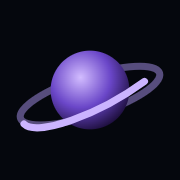
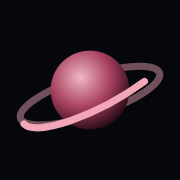
replaced serif with self-hosted Archivo, recolored projects, switched to AgX

Changed region(s): [[0.0833, 0.2778, 0.9167, 0.75]]

diff --git a/src/ui/Reader.tsx b/src/ui/Reader.tsx
@@ -67,7 +67,7 @@ const SectionBody = ({ planet, onProject }: { planet: Planet; onProject: (beacon
         <div className="grid gap-x-10 gap-y-8 sm:grid-cols-2">
           {skills.map((s) => (
             <div key={s.id} id={entryId(s.id)} className="space-y-3">
-              <h3 className={cx('font-display font-normal leading-tight text-ink', DISPLAY.d24)}>
+              <h3 className={cx('font-display leading-tight text-ink', DISPLAY.d24)}>
                 {s.content.heading}
               </h3>
               <StackChips items={s.content.items} label={s.content.heading} />
@@ -270,14 +270,11 @@ const Reader = () => {
                       onClick={() => goTo(sectionId(p.id))}
                       aria-current={on ? 'true' : undefined}
                       className={cx(
-                        'flex w-full items-center gap-3 rounded-md py-1.5 text-left text-[14px] transition-colors duration-200',
+                        'flex w-full items-center rounded-md py-1.5 text-left text-[14px] transition-colors duration-200',
                         on ? 'text-ink' : 'text-ink-faint hover:text-ink-muted',
                       )}
                     >
-                      <span className="w-5 font-mono text-[11px] tracking-[0.14em]">
-                        {String(p.index).padStart(2, '0')}
-                      </span>{' '}
-                      <span>{p.title}</span>
+                      {p.title}
                     </button>
                   </li>
                 );
@@ -294,7 +291,7 @@ const Reader = () => {
             )}
           >
             <header className="border-line pb-12 lg:border-b">
-              <h1 className={cx('font-display font-normal leading-[0.95] tracking-[-0.02em] text-ink', DISPLAY.d80)}>
+              <h1 className={cx('font-display leading-[0.95] tracking-[-0.035em] text-ink', DISPLAY.d80)}>
                 {profile.name}
               </h1>
               <ul className="mt-7 flex flex-wrap gap-x-6 gap-y-2">
@@ -357,13 +354,10 @@ const Reader = () => {
                   <h2
                     id={`${sectionId(p.id)}-title`}
                     className={cx(
-                      'flex items-baseline gap-3 font-display font-normal leading-none text-ink',
+                      'font-display leading-none text-ink',
                       DISPLAY.d52,
                     )}
                   >
-                    <span className="self-center font-mono text-[12px] tracking-[0.14em] text-ink-muted">
-                      {String(p.index).padStart(2, '0')}
-                    </span>
                     {p.title}
                   </h2>
                   {!noWebGL && (
@@ -377,7 +371,7 @@ const Reader = () => {
               </section>
             ))}
 
-            <footer className="space-y-2 pt-8 font-mono text-[12px] text-ink-faint">
+            <footer className="space-y-2 pt-8 text-[13px] text-ink-faint">
               {noWebGL && <p>The interactive version needs WebGL.</p>}
               <p>
                 {profile.name} / {new Date().getFullYear()}

diff --git a/src/ui/PlanetHud.tsx b/src/ui/PlanetHud.tsx
@@ -112,7 +112,7 @@ const BeaconMarkers = ({ planet, focused }: { planet: Planet; focused: string | 
                   on ? 'text-[var(--accent)]' : 'text-ink group-hover:text-white',
                 )}
               >
-                <span className="whitespace-nowrap font-mono text-[13px] font-medium uppercase leading-tight tracking-[0.14em] max-sm:text-[11px]">
+                <span className="whitespace-nowrap font-display text-[15px] leading-tight max-sm:text-[13px]">
                   {b.label}
                 </span>
               </span>
@@ -141,7 +141,7 @@ const BeaconMarkers = ({ planet, focused }: { planet: Planet; focused: string | 
               <span ref={bind(b.id, 'arrow')} className="inline-flex text-[var(--accent)]">
                 <ChevronIcon />
               </span>
-              <span className="font-mono text-[11px] uppercase tracking-[0.14em] text-ink">{b.label}</span>
+              <span className="text-[13px] font-medium text-ink">{b.label}</span>
             </button>
           </div>
         );
@@ -372,7 +372,7 @@ const PlanetHud = () => {
               FLOAT_TEXT,
             )}
           >
-            <span className="truncate font-display text-[20px] leading-none text-ink">{planet.title}</span>
+            <span className="truncate font-display text-[18px] leading-none text-ink">{planet.title}</span>
           </p>
           <div className="ml-auto flex shrink-0 items-center gap-1.5 sm:gap-2">
             <TravelMenu current={planet.id} isTouch={isTouch} />
@@ -397,7 +397,7 @@ const PlanetHud = () => {
           <h1
             data-planet-title
             tabIndex={-1}
-            className={cx('font-display font-normal leading-none text-ink outline-none', DISPLAY.d40)}
+            className={cx('font-display leading-none text-ink outline-none', DISPLAY.d40)}
           >
             {planet.title}
           </h1>

diff --git a/index.html b/index.html
@@ -40,12 +40,6 @@
         ]
       }
     </script>
-    <link rel="preconnect" href="https://fonts.googleapis.com" />
-    <link rel="preconnect" href="https://fonts.gstatic.com" crossorigin />
-    <link
-      href="https://fonts.googleapis.com/css2?family=IBM+Plex+Mono:wght@400;500&family=IBM+Plex+Sans:wght@400;500;600&family=Instrument+Serif:ital@0;1&display=swap"
-      rel="stylesheet"
-    />
   </head>
   <body>
     <noscript>
@@ -57,10 +51,10 @@
         <h1>John Mannully</h1>
         <p>Full-stack and AI developer in Ontario, Canada. Projects: Iris (hands-free computer control, Hack The Valley X Future Impact winner), Eureka (supply-chain risk intelligence), Bastion (autonomous blue-team agent) and ShieldClaw (Hack Canada 2026 winner).</p>
         <p>
-          <a style="color: #cbb4ff" href="mailto:johnmannul@gmail.com">Email</a> ·
-          <a style="color: #cbb4ff" href="https://github.com/teddycitrus">GitHub</a> ·
-          <a style="color: #cbb4ff" href="https://devpost.com/teddycitrus">Devpost</a> ·
-          <a style="color: #cbb4ff" href="https://www.linkedin.com/in/john-mannully/">LinkedIn</a>
+          <a style="color: #e9eef7" href="mailto:johnmannul@gmail.com">Email</a>&nbsp;&nbsp;
+          <a style="color: #e9eef7" href="https://github.com/teddycitrus">GitHub</a>&nbsp;&nbsp;
+          <a style="color: #e9eef7" href="https://devpost.com/teddycitrus">Devpost</a>&nbsp;&nbsp;
+          <a style="color: #e9eef7" href="https://www.linkedin.com/in/john-mannully/">LinkedIn</a>
         </p>
         <p>This site needs JavaScript and WebGL for the interactive version.</p>
       </main>

diff --git a/src/styles/index.css b/src/styles/index.css
@@ -24,7 +24,8 @@
     overflow: hidden;
     background: var(--space);
     color: var(--ink);
-    font-family: 'IBM Plex Sans', ui-sans-serif, system-ui, sans-serif;
+    font-family: 'Archivo Variable', ui-sans-serif, system-ui, sans-serif;
+    font-stretch: 100%;
     -webkit-font-smoothing: antialiased;
     -moz-osx-font-smoothing: grayscale;
     text-rendering: optimizeLegibility;
@@ -67,6 +68,16 @@
   }
 }
 
+@layer utilities {
+  /* Display cut: Archivo expanded and a little heavier, tight tracking. */
+  .font-display {
+    font-family: 'Archivo Variable', ui-sans-serif, system-ui, sans-serif;
+    font-stretch: 118%;
+    font-weight: 540;
+    letter-spacing: -0.025em;
+  }
+}
+
 @layer components {
   /* Instrument panel surface: dark, slightly translucent, hairline border. */
   .panel {
@@ -77,12 +88,11 @@
     box-shadow: 0 24px 60px -24px rgba(0, 0, 0, 0.7);
   }
 
-  /* Small uppercase telemetry label. */
+  /* Small secondary label: same family as the text around it, just quieter. */
   .label {
-    font-family: 'IBM Plex Mono', ui-monospace, monospace;
-    font-size: 11px;
-    letter-spacing: 0.14em;
-    text-transform: uppercase;
+    font-size: 13px;
+    font-weight: 450;
+    line-height: 1.3;
     color: var(--ink-muted);
   }
 
@@ -96,7 +106,7 @@
     border: 1px solid var(--line);
     border-bottom-width: 2px;
     border-radius: 4px;
-    font-family: 'IBM Plex Mono', ui-monospace, monospace;
+    font-family: 'JetBrains Mono Variable', ui-monospace, monospace;
     font-size: 11px;
     color: var(--ink);
     background: rgba(255, 255, 255, 0.04);

diff --git a/src/scenes/Effects.tsx b/src/scenes/Effects.tsx
@@ -1,6 +1,6 @@
 import { PerformanceMonitor } from '@react-three/drei';
 import { useThree } from '@react-three/fiber';
-import { Bloom, EffectComposer, Noise, ToneMapping, Vignette } from '@react-three/postprocessing';
+import { Bloom, BrightnessContrast, EffectComposer, Noise, ToneMapping, Vignette } from '@react-three/postprocessing';
 import { BlendFunction, ToneMappingMode } from 'postprocessing';
 
 /**
@@ -25,7 +25,8 @@ const AdaptiveDpr = () => {
 
 /**
  * HDR post chain for every mode. Scenes render linear HDR; bloom only catches
- * values above ~1 (sun core, lava, hovered rims), then ACES maps to display.
+ * values above ~1 (sun core, lava, hovered rims), then AgX maps to display: it rolls highlights
+ * off without the hue skew ACES gives saturated lava, skies and accents.
  */
 const Effects = () => {
   return (
@@ -40,8 +41,10 @@ const Effects = () => {
           radius={0.72}
           levels={COARSE ? 4 : 5}
         />
-        <ToneMapping mode={ToneMappingMode.ACES_FILMIC} />
-        <Vignette offset={0.32} darkness={0.5} />
+        <ToneMapping mode={ToneMappingMode.AGX} />
+        {/* AgX lands a touch flat; a little contrast brings the low-poly faces back apart */}
+        <BrightnessContrast contrast={0.12} />
+        <Vignette offset={0.36} darkness={0.38} />
         {COARSE ? <></> : <Noise blendFunction={BlendFunction.OVERLAY} opacity={0.04} />}
       </EffectComposer>
     </>

diff --git a/src/ui/OverworldHud.tsx b/src/ui/OverworldHud.tsx
@@ -63,7 +63,7 @@ const PlanetLabels = ({ hovered, isTouch }: { hovered: string | null; isTouch: b
             >
               {/* staggered reveal so the first overworld frame is calm */}
               <span
-                className="block animate-fade-in whitespace-nowrap font-display text-[20px] leading-none min-[1921px]:text-[24px]"
+                className="block animate-fade-in whitespace-nowrap font-display text-[17px] leading-none min-[1921px]:text-[20px]"
                 style={{ animationDelay: `${550 + i * 90}ms` }}
               >
                 {p.title}
@@ -84,7 +84,7 @@ const PlanetLabels = ({ hovered, isTouch }: { hovered: string | null; isTouch: b
               <span ref={bind(p.id, 'arrow')} className="inline-flex text-[var(--accent)]">
                 <ChevronIcon />
               </span>
-              <span className="font-mono text-[11px] uppercase tracking-[0.14em] text-ink-muted">{p.title}</span>
+              <span className="text-[13px] font-medium text-ink-muted">{p.title}</span>
             </button>
           </div>
         );

diff --git a/src/ui/primitives.tsx b/src/ui/primitives.tsx
@@ -64,16 +64,17 @@ export const FLOAT_TEXT = '[text-shadow:0_1px_2px_rgba(5,7,13,0.9),0_0_14px_rgba
 export const IN_WORLD = FLOAT_TEXT;
 
 /**
- * Display type scale (Instrument Serif): 136 / 80 / 52 / 40 / 32 / 24 / 20.
- * Only these sizes are used for serif text.
+ * Display type scale (Archivo expanded): 64 / 44 / 32 / 26 / 22 / 18.
+ * Only these sizes are used for display text.
  */
 export const DISPLAY = {
-  d80: 'text-[52px] md:text-[80px]',
-  d52: 'text-[40px] md:text-[52px]',
-  d40: 'text-[32px] md:text-[40px]',
-  d32: 'text-[32px]',
-  d24: 'text-[24px]',
-  d20: 'text-[20px]',
+  // the expanded cut sets wider than the old serif, so the scale steps down
+  d80: 'text-[40px] md:text-[64px]',
+  d52: 'text-[32px] md:text-[44px]',
+  d40: 'text-[26px] md:text-[32px]',
+  d32: 'text-[26px]',
+  d24: 'text-[22px]',
+  d20: 'text-[18px]',
 } as const;
 
 type Variant = 'primary' | 'panel' | 'ghost';

diff --git a/src/ui/BeaconContent.tsx b/src/ui/BeaconContent.tsx
@@ -12,8 +12,8 @@ import type {
 import { ArrowIcon, Chip, DISPLAY, PlayIcon, buttonClass, cx } from './primitives';
 import { findProjectBeacon } from './navigation';
 
-/** Reader entry headings share one size across every kind; the panel title is 32 too. */
-export const ENTRY_HEADING = cx('font-display font-normal leading-[1.05] tracking-[-0.01em] text-ink', DISPLAY.d32);
+/** Entry headings share one size across every kind, in the reader and on the screens. */
+export const ENTRY_HEADING = cx('font-display leading-[1.1] text-ink', DISPLAY.d32);
 
 /**
  * Shared content renderers for the beacon panel and the reader page so a

diff --git a/tailwind.config.js b/tailwind.config.js
@@ -4,9 +4,9 @@ export default {
   theme: {
     extend: {
       fontFamily: {
-        display: ['"Instrument Serif"', 'ui-serif', 'Georgia', 'serif'],
-        sans: ['"IBM Plex Sans"', 'ui-sans-serif', 'system-ui', 'sans-serif'],
-        mono: ['"IBM Plex Mono"', 'ui-monospace', 'SFMono-Regular', 'monospace'],
+        // one grotesque family; display is its expanded cut (see .font-display in index.css)
+        sans: ['"Archivo Variable"', 'ui-sans-serif', 'system-ui', 'sans-serif'],
+        mono: ['"JetBrains Mono Variable"', 'ui-monospace', 'SFMono-Regular', 'monospace'],
       },
       colors: {
         space: {

diff --git a/src/ui/TourBar.tsx b/src/ui/TourBar.tsx
@@ -271,7 +271,7 @@ const TourBar = () => {
 
         <div aria-live="polite" className="mt-2">
           {end ? (
-            <p className="font-display text-[24px] leading-tight text-ink">That's the tour.</p>
+            <p className="font-display text-[22px] leading-tight text-ink">That's the tour.</p>
           ) : (
             <p className="text-[14px] leading-snug text-ink sm:text-[15px]">
               <span className="sr-only">

diff --git a/src/main.tsx b/src/main.tsx
@@ -2,6 +2,8 @@ import React from 'react';
 import ReactDOM from 'react-dom/client';
 import App from './App';
 import { useAppStore } from './state/useAppStore';
+import '@fontsource-variable/archivo/wdth.css';
+import '@fontsource-variable/jetbrains-mono';
 import './styles/index.css';
 import { initDrone } from './audio/drone';
 

diff --git a/README.md b/README.md
@@ -30,7 +30,7 @@ flowchart LR
     surface["PlanetSurfaceScene<br/><sub>sky, terrain, monuments, wildlife, walk camera</sub>"]
     screens["BeaconScreens<br/><sub>orbiting panels, in-world content screens</sub>"]
     transition["TransitionController<br/><sub>dive and launch camera</sub>"]
-    fx["Effects<br/><sub>bloom, ACES, vignette</sub>"]
+    fx["Effects<br/><sub>bloom, AgX, contrast, vignette</sub>"]
   end
   subgraph DOM["DOM UI"]
     hud["OverworldHud, PlanetHud, TourBar<br/><sub>labels, dock, chips</sub>"]
@@ -99,7 +99,8 @@ Guarantees and limits:
 - Beacon screens are real DOM (drei `Html` in transform mode, portalled into `#screen-layer` between the canvas and the HUD), so links, the video and keyboard focus work. They lay out in up to three columns on a plane 3.2 units in front of the camera, on whichever side of the monument has room, and shrink to fit the view. They fold back past 8.5 units.
 - Wildlife is picked by planet style: gulls on Skills, birds and deer on Contact, hopping aliens and birds on About, glowing drifters on Projects, nothing on Awards. Birds are one instanced mesh with wing flaps in the vertex shader; walkers wander a ring behind the monuments and trot away from the viewer.
 - The ambient drone is synthesised (detuned saws through a slow lowpass and a generated reverb), plays each planet's `key` from content.json, crossfades over 4 s on travel and sits at 0.08 gain in orbit against 0.2 on a planet. It starts on the first click or key press; the Sound toggle is stored in `localStorage` and suspends the audio context when off.
-- Post-processing renders in linear HDR with ACES tone mapping; only values above 1.0 bloom (sun, lava, glints, focused seams). Touch devices drop multisampling and film grain.
+- Type is one self-hosted family, Archivo (expanded cut for display, normal for text), with JetBrains Mono only for key caps and handles. No font CDN.
+- Post-processing renders in linear HDR with AgX tone mapping and a light contrast lift; only values above 1.0 bloom (sun, lava, glints, focused seams). Touch devices drop multisampling and film grain.
 
 ## Getting started
 
